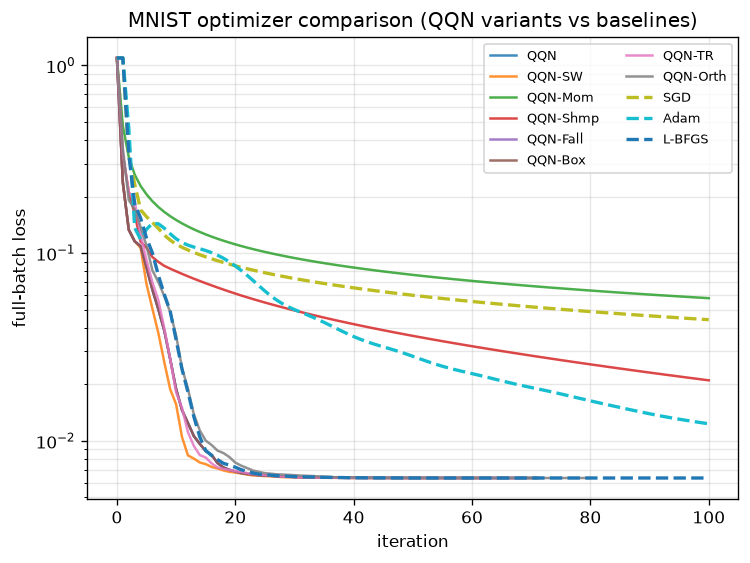
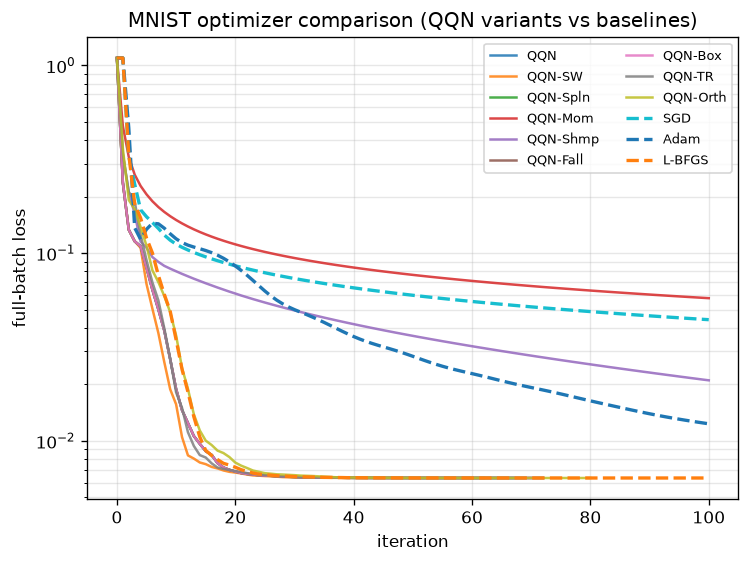
wip

diff --git a/qqn_jax/spline_search.py b/qqn_jax/spline_search.py
@@ -14,7 +14,7 @@ do not mislead the search.
 See ``spline_search.md`` for the full specification.
 """
 
-from typing import Callable, NamedTuple
+from typing import Callable
 
 import jax
 import jax.numpy as jnp
@@ -121,9 +121,6 @@ def spline_search(
     value,
     grad,
     *args,
-    grad_dir=None,
-    qn_dir=None,
-    t=None,
     init_step: float = 1.0,
     c1: float = 1e-4,
     max_iter: int = 10,

diff --git a/qqn_jax/regions.py b/qqn_jax/regions.py
@@ -18,7 +18,7 @@ from typing import Any, Callable, NamedTuple, Optional, Sequence
 import jax
 import jax.numpy as jnp
 
-from qqn_jax.utils import tree_l2_norm, tree_vdot
+from qqn_jax.utils import tree_l2_norm
 
 
 class Region(NamedTuple):

diff --git a/qqn_jax/utils.py b/qqn_jax/utils.py
@@ -1,6 +1,6 @@
 """Shared utilities for QQN-JAX."""
 
-from typing import Callable, Tuple
+from typing import Callable
 
 import jax
 import jax.numpy as jnp

diff --git a/qqn_jax/oracles.py b/qqn_jax/oracles.py
@@ -19,7 +19,6 @@ import jax
 import jax.numpy as jnp
 
 from qqn_jax.lbfgs import (
-    LBFGSState,
     init_lbfgs_state,
     lbfgs_direction,
     update_lbfgs_history,

diff --git a/README.md b/README.md
@@ -101,10 +101,10 @@ QQN(
     maxiter=100,
     tol=1e-5,
     history_size=10,
-     line_search="armijo",         # "armijo" (default) | "backtracking" |
-                                   # "strong_wolfe" | "hager_zhang" |
-                                   # "fixed" | "spline"
-     line_search_options=None,     # dict of kwargs for the line search
+    line_search="armijo",         # "armijo" (default) | "backtracking" |
+                                  # "strong_wolfe" | "hager_zhang" |
+                                  # "fixed" | "spline"
+    line_search_options=None,     # dict of kwargs for the line search
     has_aux=False,
     t_grid=None,
     oracle="lbfgs",               # "lbfgs" | "momentum" | "shampoo" | Oracle